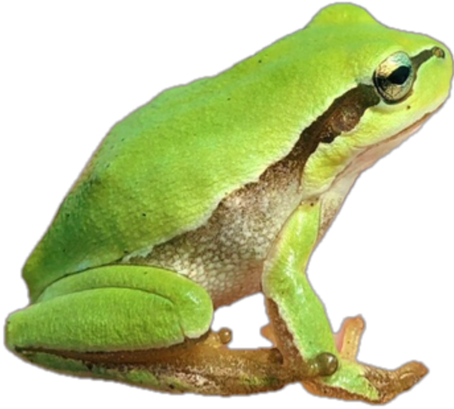
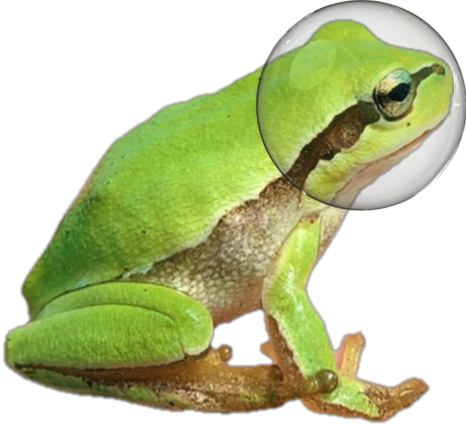
added space helmets to characters

diff --git a/Java Game Engine/src/code/game/FrogCharacter.java b/Java Game Engine/src/code/game/FrogCharacter.java
@@ -20,7 +20,7 @@ public class FrogCharacter {
         this.xPosition = startX;
         this.yPosition = startY;
         this.screenArea = new ScreenArea(startX, startY, 150, 150);
-        this.image = new DrawableImage("/resources/game/images/frog.png", this.screenArea, 10);
+        this.image = new DrawableImage("/resources/game/images/frog2.png", this.screenArea, 10);
     }
 
     public void update(double time) {

diff --git a/Java Game Engine/src/code/game/FlyCharacter.java b/Java Game Engine/src/code/game/FlyCharacter.java
@@ -18,7 +18,7 @@ public class FlyCharacter {
         this.xPosition = startX;
         this.yPosition = startY;
         this.screenArea = new ScreenArea(startX, startY, 100, 100);
-        this.image = new DrawableImage("/resources/game/images/fly.png", this.screenArea, 5);
+        this.image = new DrawableImage("/resources/game/images/fly2.png", this.screenArea, 5);
     }
 
     public void update(double time) {
